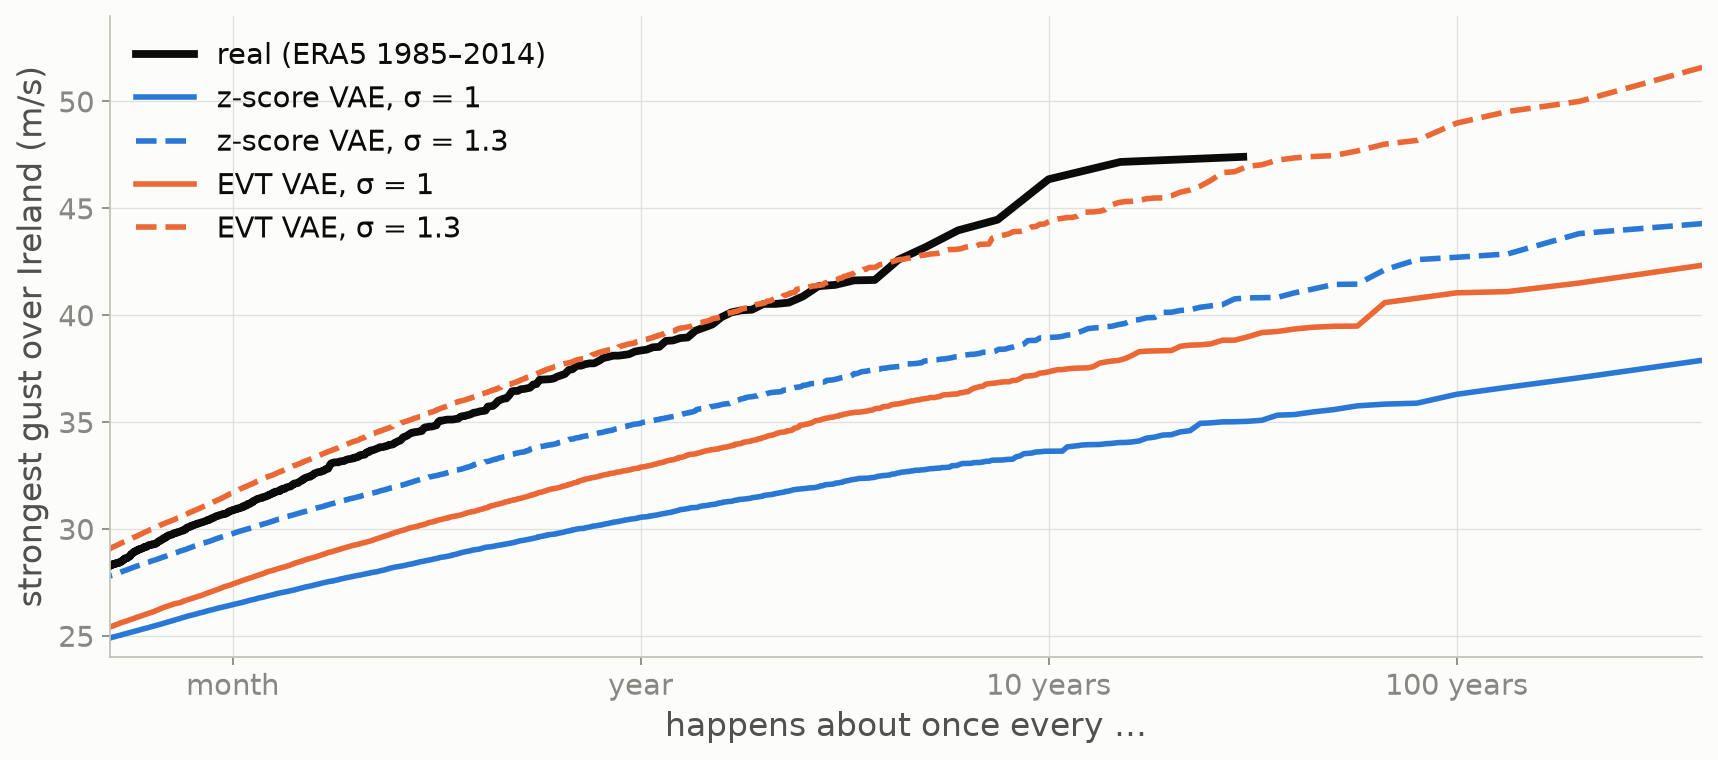
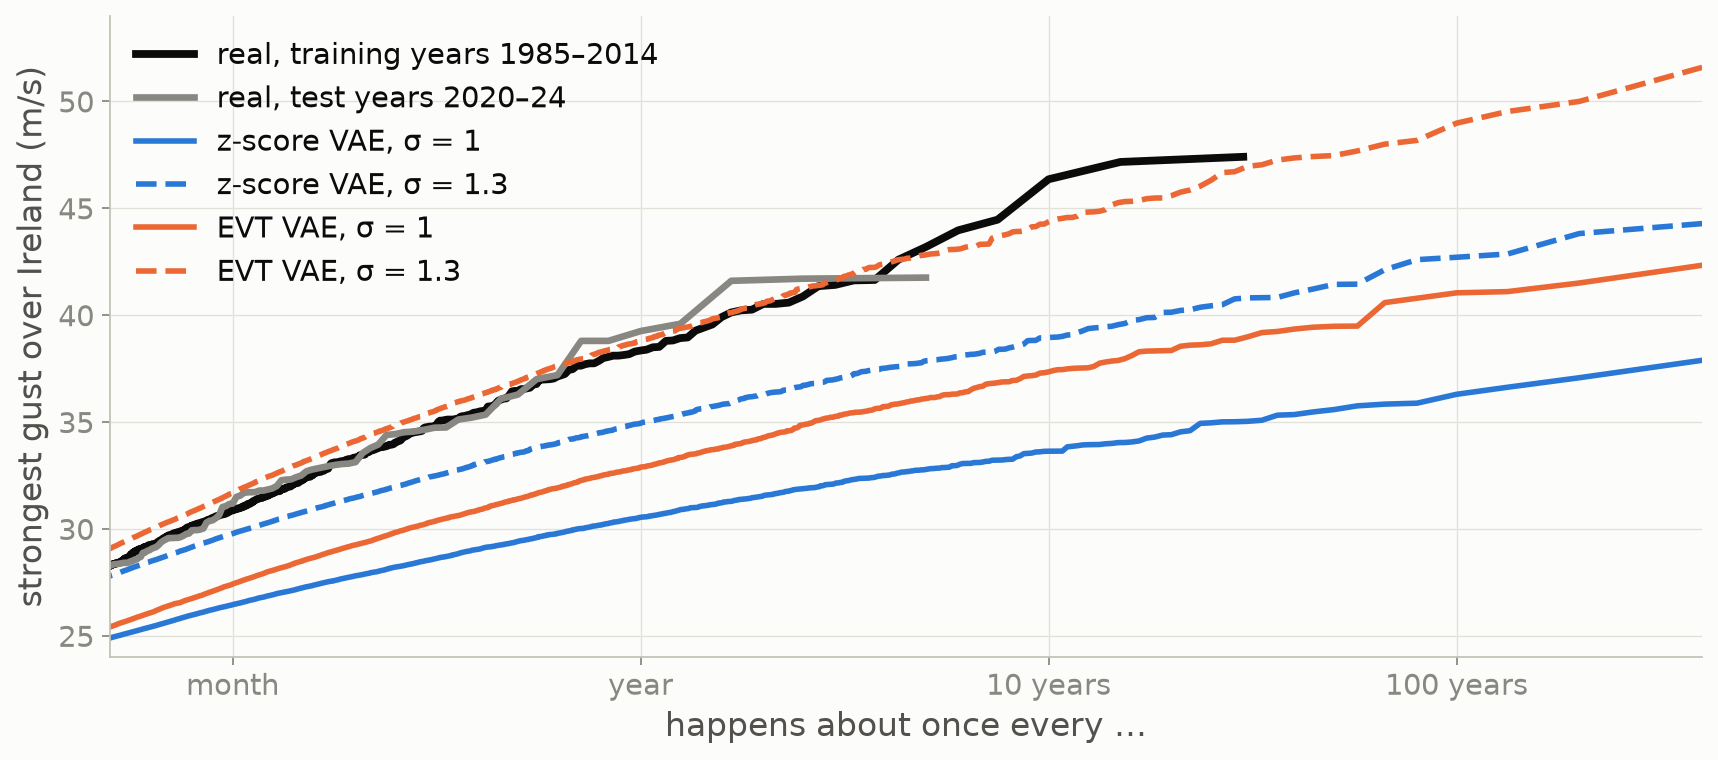
Show test years on the slides: 2020-24 return-level curve and named test storms

diff --git a/talk/slide_figures.py b/talk/slide_figures.py
@@ -165,7 +165,9 @@ def return_levels_ireland():
     mask = W.ireland_mask(lat, lon)
     fig, ax = plt.subplots(figsize=(11, 5))
     v, T = P.exceedance(W.domain_max(data["train"][0], mask))
-    ax.plot(T, v, color=P.INK, lw=3.5, label="real (ERA5 1985–2014)")
+    ax.plot(T, v, color=P.INK, lw=3.5, label="real, training years 1985–2014")
+    v, T = P.exceedance(W.domain_max(data["test"][0], mask))
+    ax.plot(T, v, color=P.MUTED, lw=3, label="real, test years 2020–24")
     for n in ["zscore", "evt"]:
         m, tf, _, _ = W.load_model(W.OUT / "results" / "models" / f"{n}_s0.pt")
         for sg in [1.0, 1.3]:
@@ -263,6 +265,34 @@ def james_slides():
                 bbox=dict(fc=P.SURFACE, ec="none", alpha=0.85, pad=2))
     fig.colorbar(im, ax=axes, fraction=0.012, pad=0.01, label="m/s")
     save(fig, "s_extremes_maps.png")
+
+
+def test_storms():
+    """Named storms in the test years: real vs both models' reconstructions (3 storms x 3 rows)."""
+    data, lat, lon = W.load("gust")
+    mask = W.ireland_mask(lat, lon)
+    test, dates = data["test"][0], pd.to_datetime(data["test"][1])
+    rec = {}
+    for n in ["zscore", "evt"]:
+        m, tf, _, _ = W.load_model(W.OUT / "results" / "models" / f"{n}_s0.pt")
+        rec[n] = W.reconstruct(m, tf, W.torch.from_numpy(tf.forward(test))[:, None].to(W.DEVICE))
+    peak = W.domain_max(test, mask)
+    storms = {"Barra": "2021-12-07", "Eunice": "2022-02-18", "Isha": "2024-01-21"}
+    fig, axes = plt.subplots(3, 3, figsize=(8.4, 8.4))
+    for j, (name, d) in enumerate(storms.items()):
+        win = np.where(np.abs((dates - pd.Timestamp(d)).days) <= 1)[0]
+        i = int(win[np.argmax(peak[win])])
+        for r, (f, lab) in enumerate([(test[i], "real"), (rec["zscore"][i], "z-score VAE"), (rec["evt"][i], "EVT VAE")]):
+            im = P.wind_map(axes[r, j], f, lat, lon, vmin=10, vmax=45, mask=mask, peak=False,
+                            title=f"{name}, {dates[i]:%d %b %Y}" if r == 0 else None)
+            axes[r, j].text(0.04, 0.05, f"{f[mask].max():.0f} m/s", transform=axes[r, j].transAxes, fontsize=14,
+                            color=P.INK, bbox=dict(fc=P.SURFACE, ec="none", alpha=0.85, pad=2))
+            if j == 0:
+                axes[r, j].text(-0.06, 0.5, lab, transform=axes[r, j].transAxes, rotation=90, ha="right",
+                                va="center", fontsize=15)
+        axes[0, j].title.set_fontsize(14)
+    fig.subplots_adjust(wspace=0.05, hspace=0.12, left=0.06, right=0.99, top=0.95, bottom=0.01)
+    save(fig, "s_test_storms.png")
 
 
 def untitled_results():
